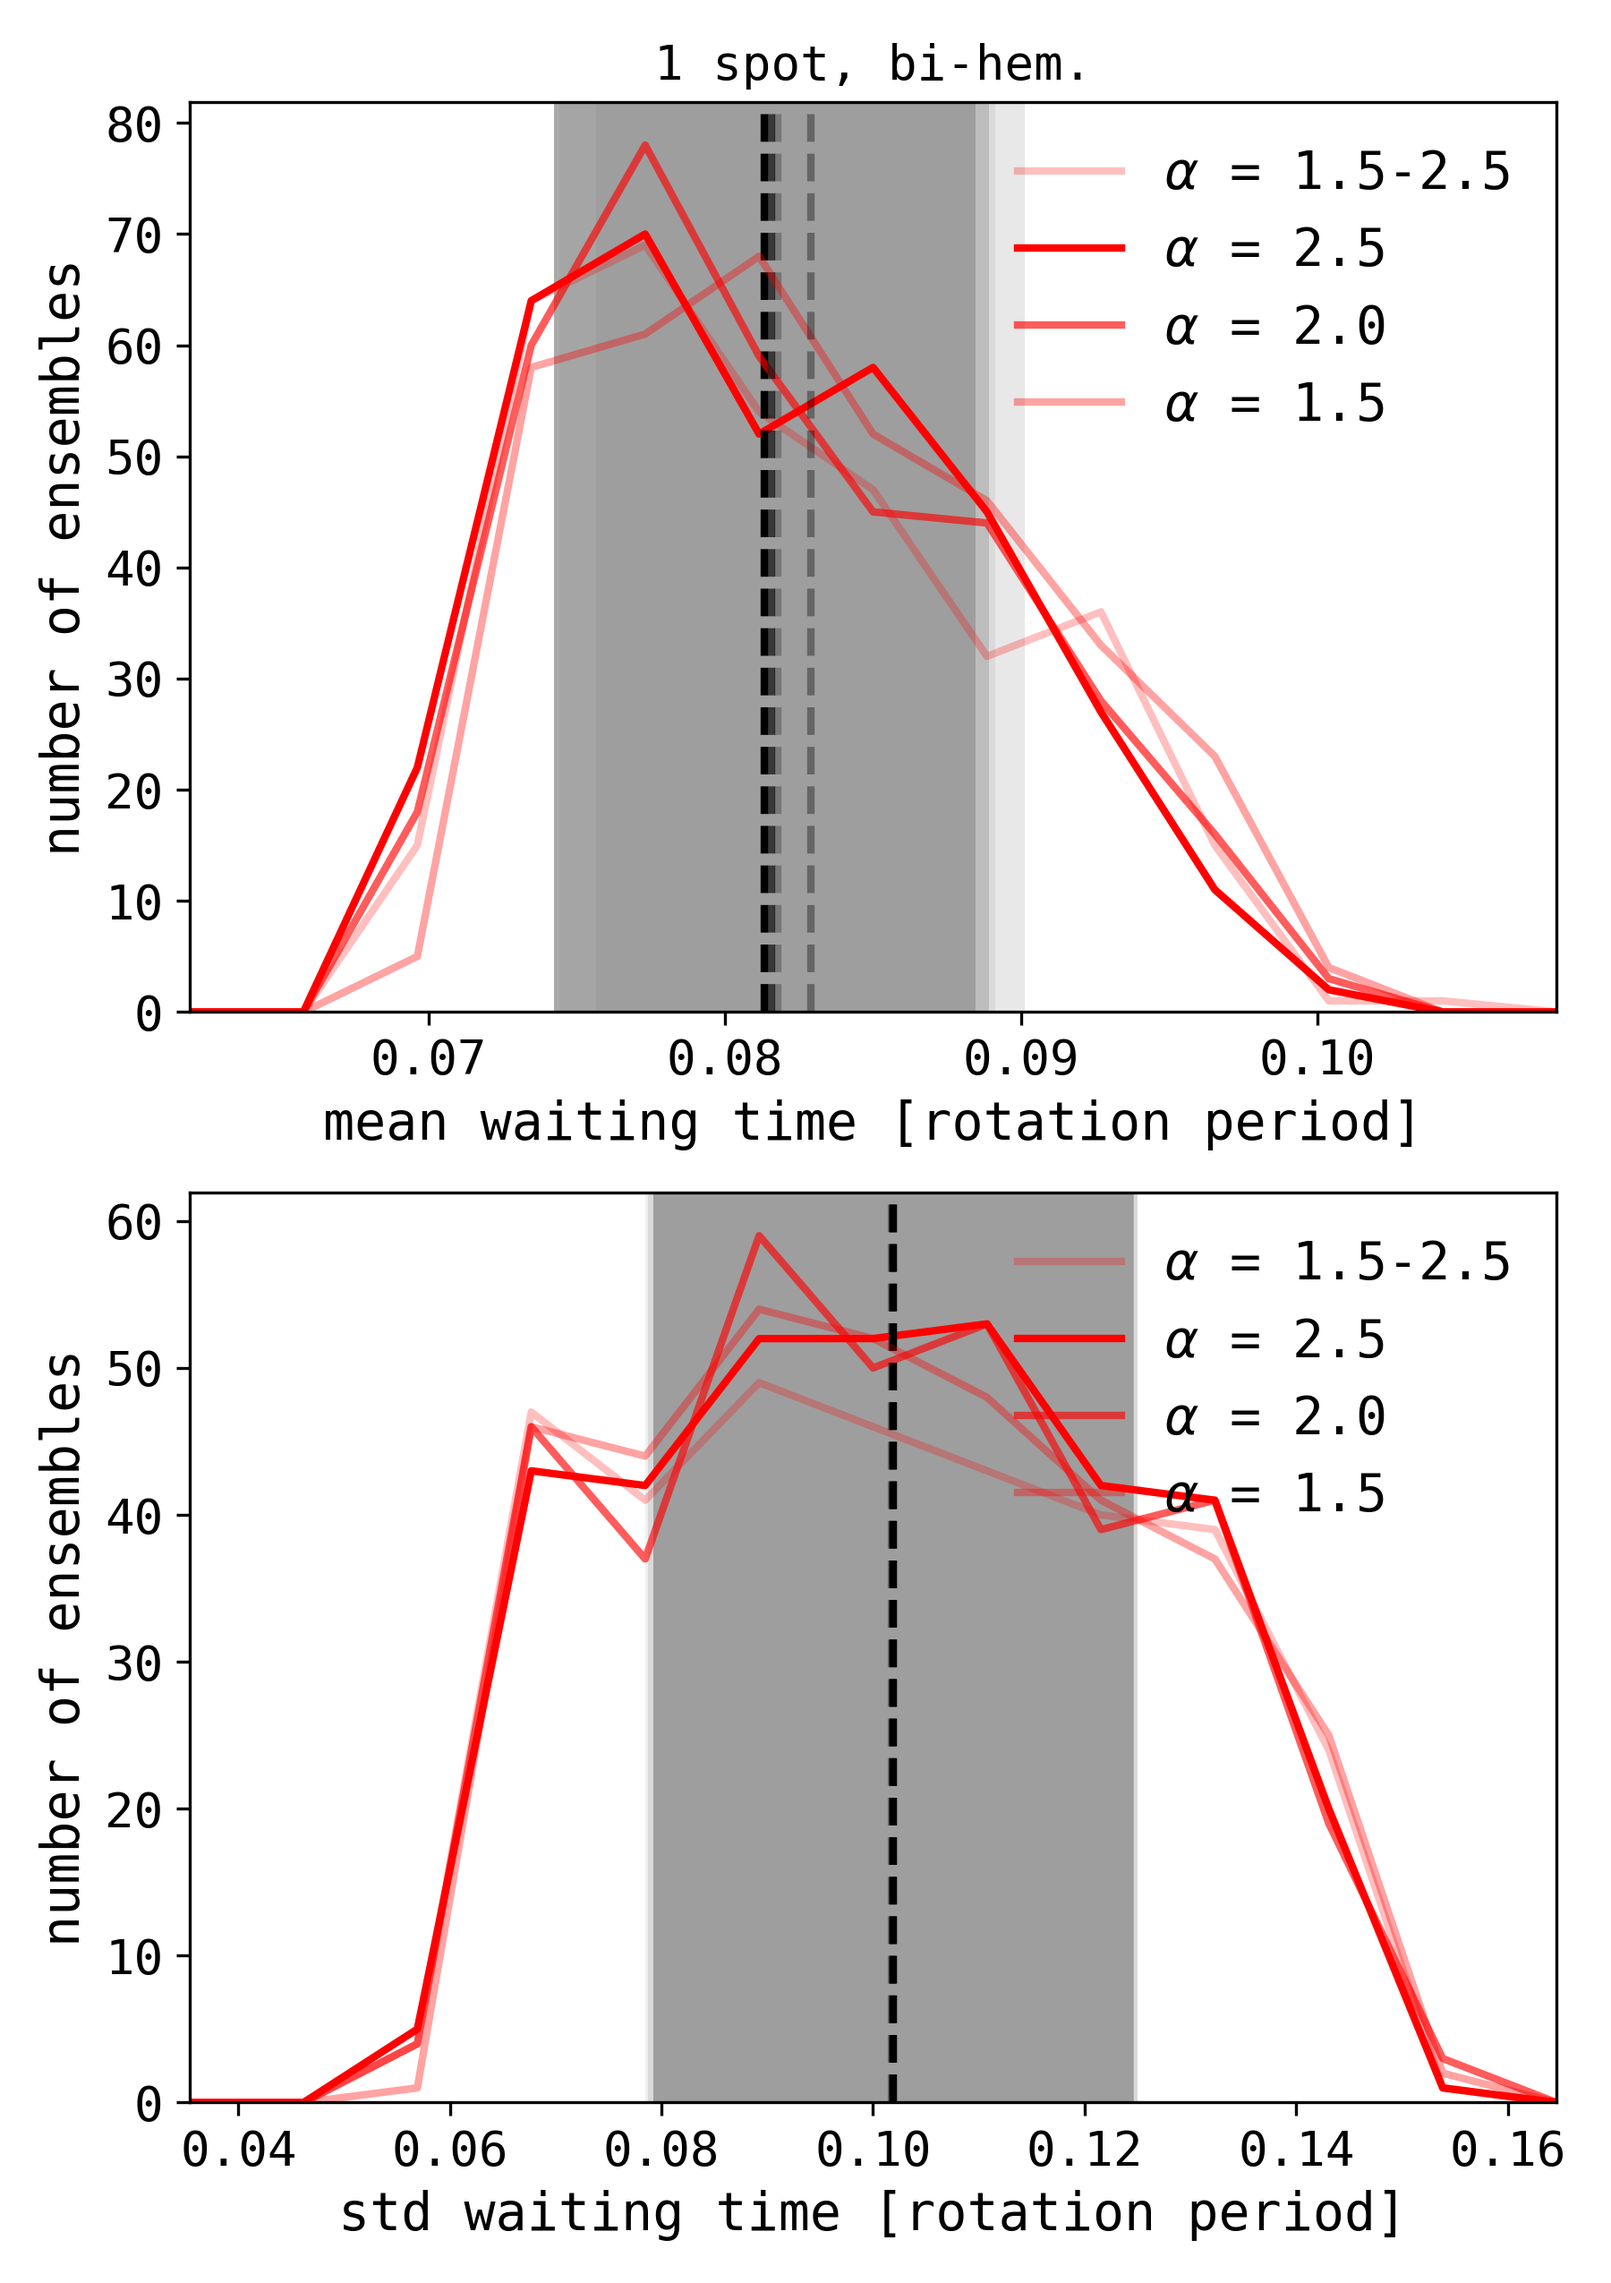
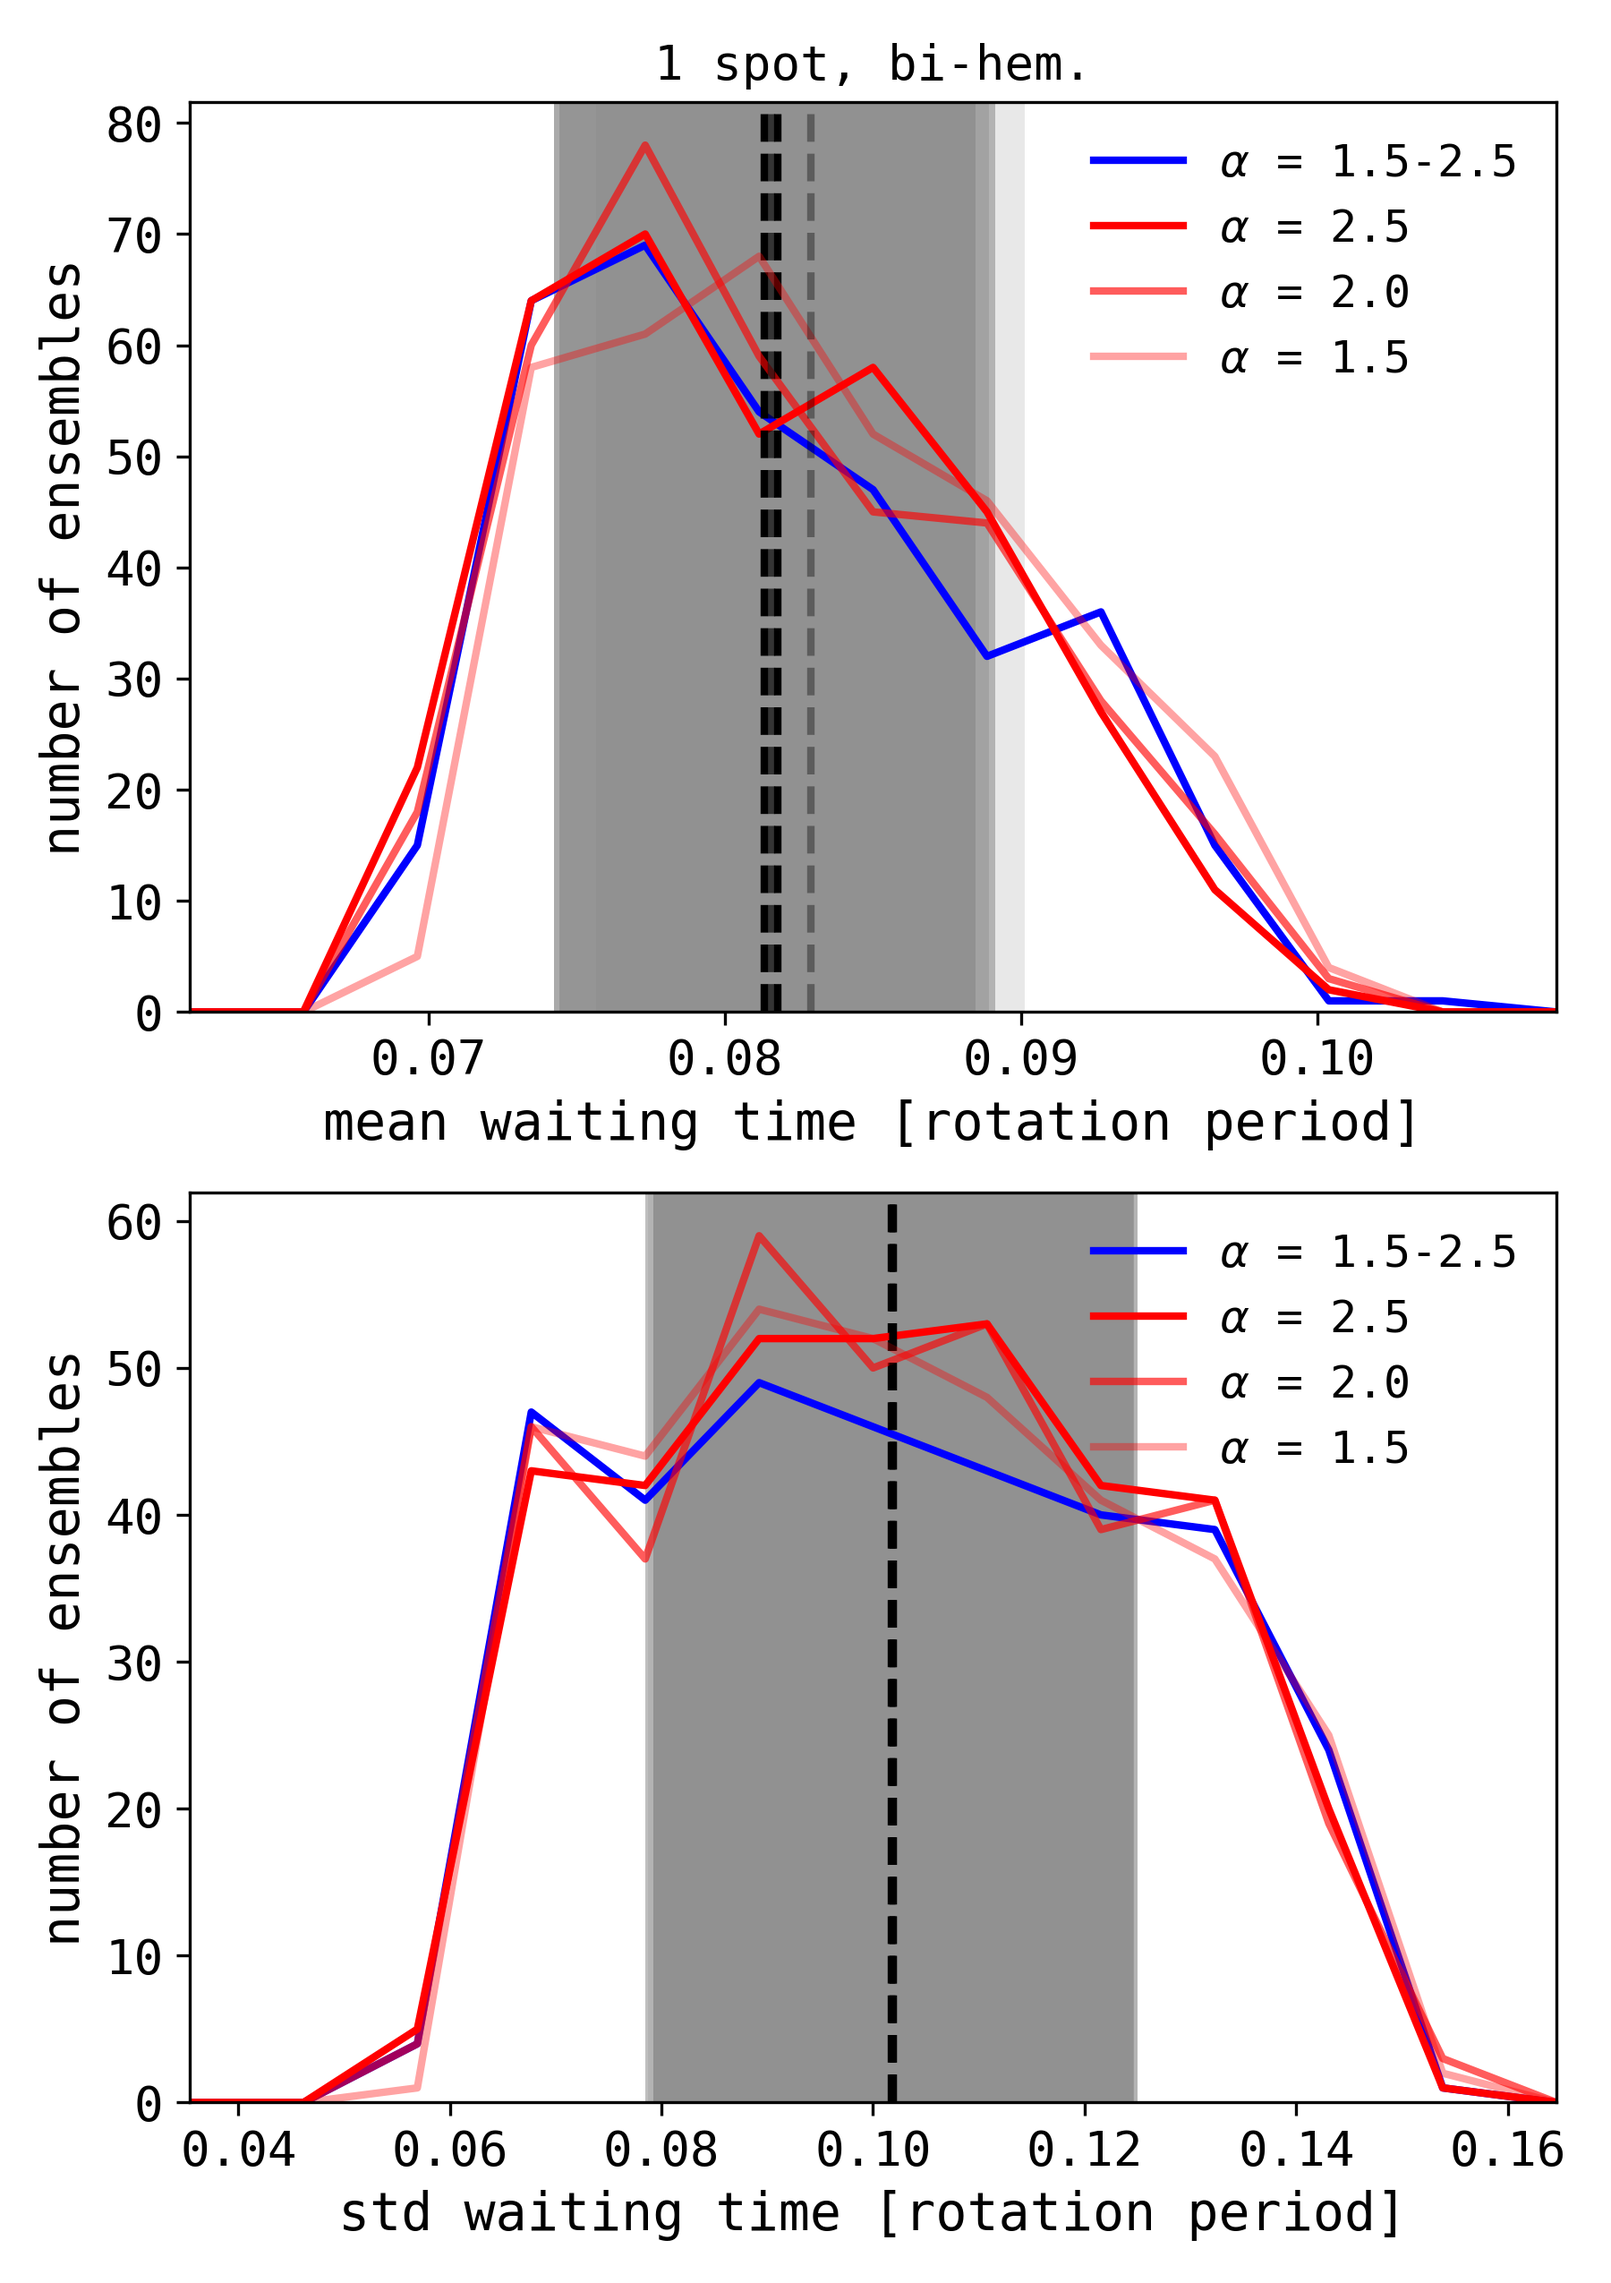
rerun script 17 with better color coding

diff --git a/17_FIGURE_8_vary_alpha.py b/17_FIGURE_8_vary_alpha.py
@@ -50,10 +50,11 @@ if __name__ == "__main__":
         # make label
         alpha = label.split("alpha$ = ")[1].split(", bi")[0]
         if alpha=="1.5-2.5":
-            alpha = 0.25
+            alpha = 1.
             c = "b"
         else:
             alpha= (float(alpha) / 2.5)**2
+            c = "r"
             
         l = label.split(", ")[0]
         
@@ -66,7 +67,7 @@ if __name__ == "__main__":
         binmids = (bins[1:] + bins[:-1]) / 2.
         histmeans, bins = np.histogram(means, bins=bins)
 
-        ax[0].plot(binmids, histmeans, c="r", alpha=alpha, label=l)
+        ax[0].plot(binmids, histmeans, c=c, alpha=alpha, label=l)
         ax[0].axvline(np.mean(means),c="k", linestyle="dashed", alpha=alpha)
         ax[0].axvspan(np.mean(means) - np.std(means),
                        np.mean(means) + np.std(means),
@@ -78,7 +79,7 @@ if __name__ == "__main__":
         binmids = (bins[1:] + bins[:-1]) / 2.
         histstds, bins = np.histogram(stds, bins=bins)
 
-        ax[1].plot(binmids, histstds, c="r", alpha=alpha, label=l)
+        ax[1].plot(binmids, histstds, c=c, alpha=alpha, label=l)
         ax[1].axvline(np.mean(stds),c="k", linestyle="dashed", alpha=alpha)
         ax[1].axvspan(np.mean(stds) - np.std(stds),
                        np.mean(stds) + np.std(stds),
@@ -88,7 +89,7 @@ if __name__ == "__main__":
     # layout
     for a in ax:
         a.set_ylabel("number of ensembles", fontsize=14)
-        a.legend(loc=1,fontsize=14, frameon=False)
+        a.legend(loc=1,fontsize=12, frameon=False)
         a.set_ylim(0,)
 
     ax[0].set_title(rf"1 spot, bi-hem.",fontsize=13)
